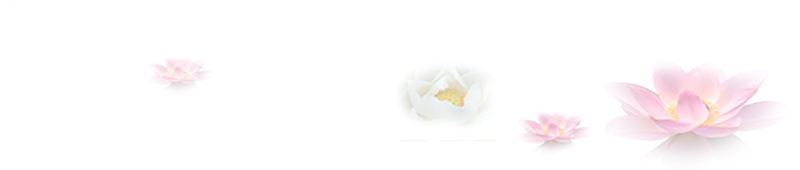
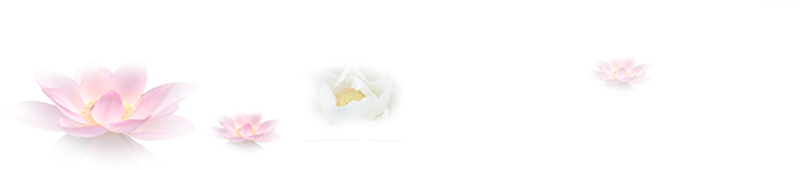
change

diff --git a/culture.html b/culture.html
@@ -14,7 +14,7 @@
 		<div id="culture_main_content">
 			<ul class="culture_pic">
 				<li>
-					<img src="index/唐英.jpg" alt=""/>
+					<img src="index/develop_01.png" alt=""/>
 					<div class="outer">
 						<div class="inner">
 							<p>第一阶段</p>
@@ -24,7 +24,7 @@
 					</div>
 				</li>
 				<li>
-					<img src="index/唐英.jpg" alt=""/>
+					<img src="index/develop_02.png" alt=""/>
 					<div class="outer">
 						<div class="inner">
 							<p>第二阶段</p>
@@ -34,7 +34,7 @@
 					</div>
 				</li>
 				<li>
-					<img src="index/唐英.jpg" alt=""/>
+					<img src="index/develop_03.png" alt=""/>
 					<div class="outer">
 						<div  class="inner">
 							<p>第三阶段</p>
@@ -44,7 +44,7 @@
 					</div>
 				</li>
 				<li>
-					<img src="index/唐英.jpg" alt=""/>
+					<img src="index/develop_04.png" alt=""/>
 					<div class="outer">
 						<div  class="inner">
 							<p>第四阶段</p>
@@ -54,7 +54,7 @@
 					</div>
 				</li>
 				<li>
-					<img src="index/唐英.jpg" alt=""/>
+					<img src="index/develop_05.png" alt=""/>
 					<div class="outer">
 						<div  class="inner">
 							<p>第五阶段</p>

diff --git a/js/index.js b/js/index.js
@@ -354,7 +354,7 @@ function miss(str){
 					"width":"100%",
 					"height":"100%",
 					"margin":"0px",
-					"opacity":"1",
+					"opacity":"1"
 				},500,function(){
 						$("#footer").css("position","").css("top",0+"px");
 					}
